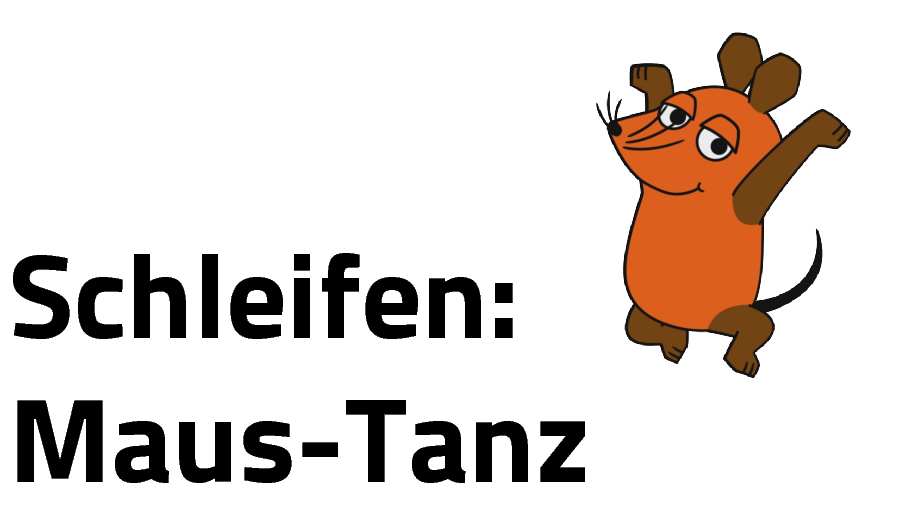
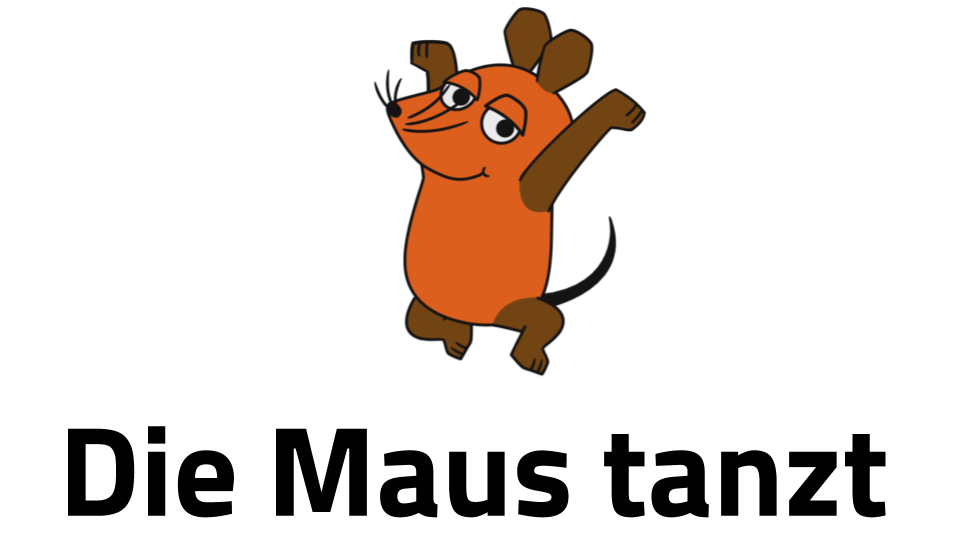
Minor fixes to edu

diff --git a/src/lib/edu/index.js b/src/lib/edu/index.js
@@ -19,19 +19,19 @@ export default [
     },
     {
         id: '03',
-        name: 'Tanz, Maus, tanz!',
+        name: 'Die Maus tanzt!',
         subtitle: '03 Schleifen',
         image: '../edu/03/assets/000.png',
     },
     {
         id: '04',
-        name: 'Wimmelbild mit Elefant und Ente',
+        name: 'Wimmelbild',
         subtitle: '04 Mehr Figuren',
         image: '../edu/04/assets/000.png',
     },
     {
         id: '05',
-        name: 'Wurst im Weltraum',
+        name: 'Kugelfisch',
         subtitle: '01 Bewegung',
         image: '../edu/05/assets/000.png',
     },
